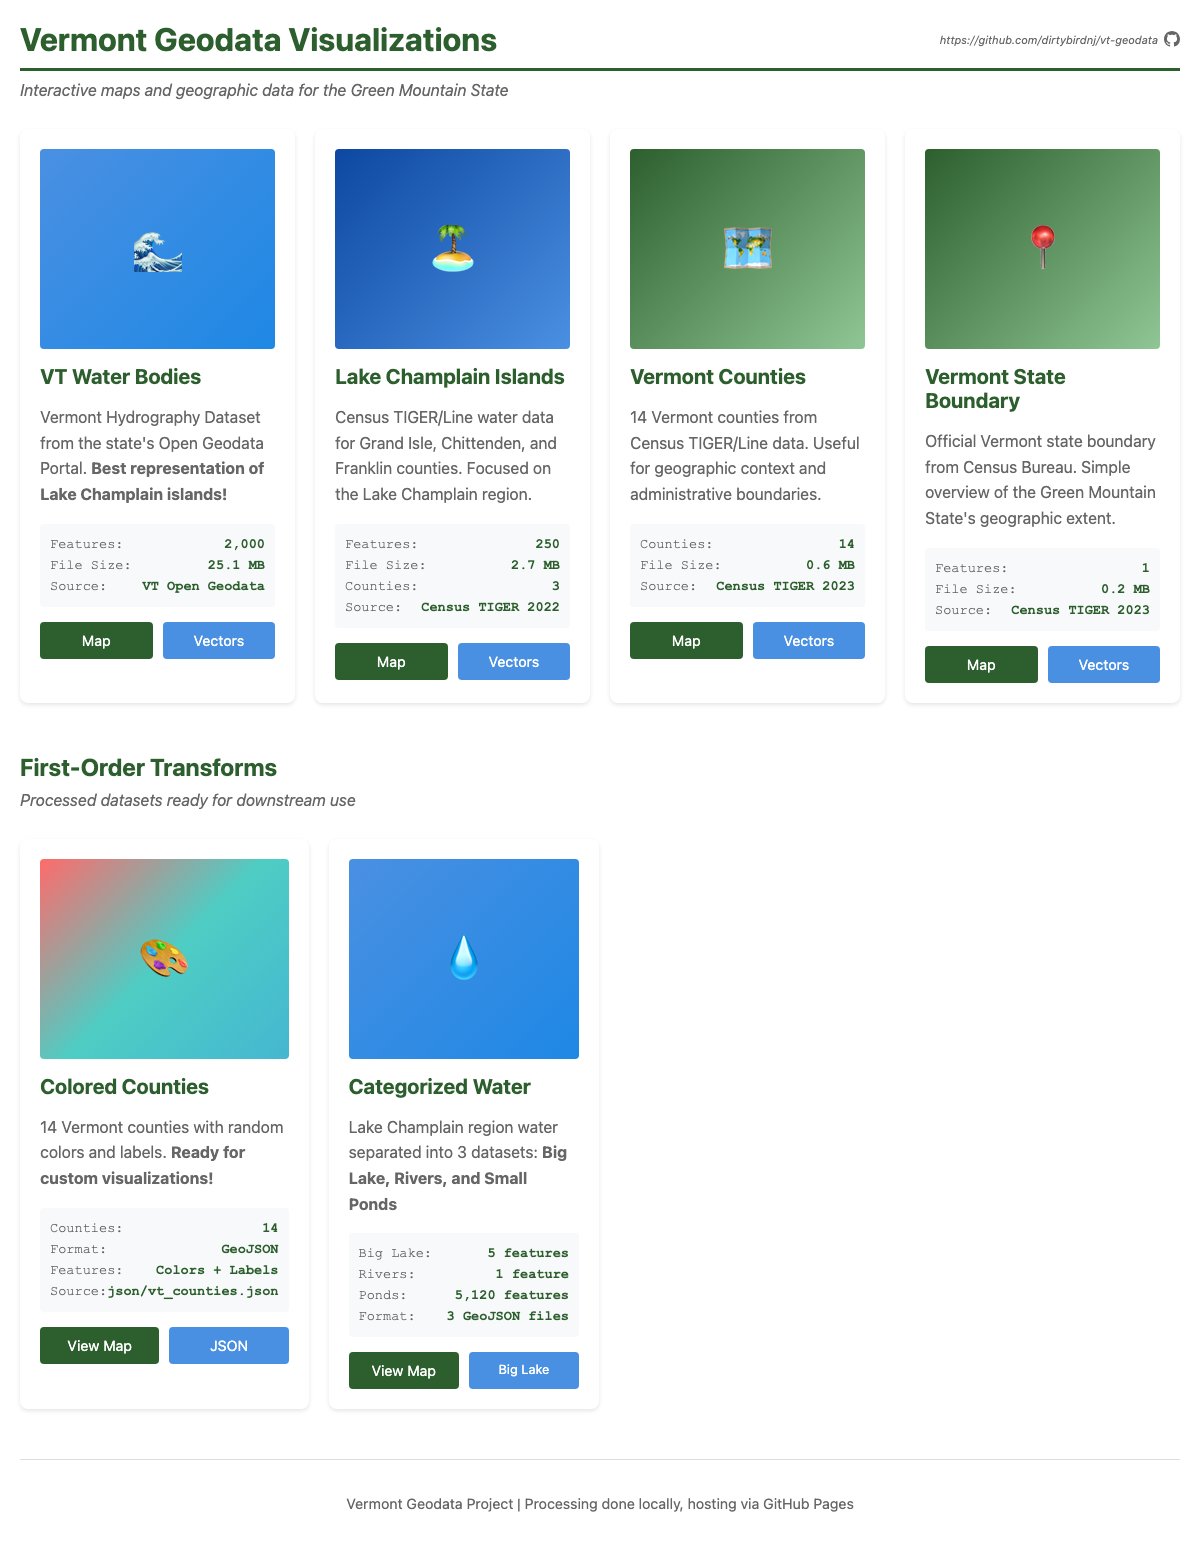
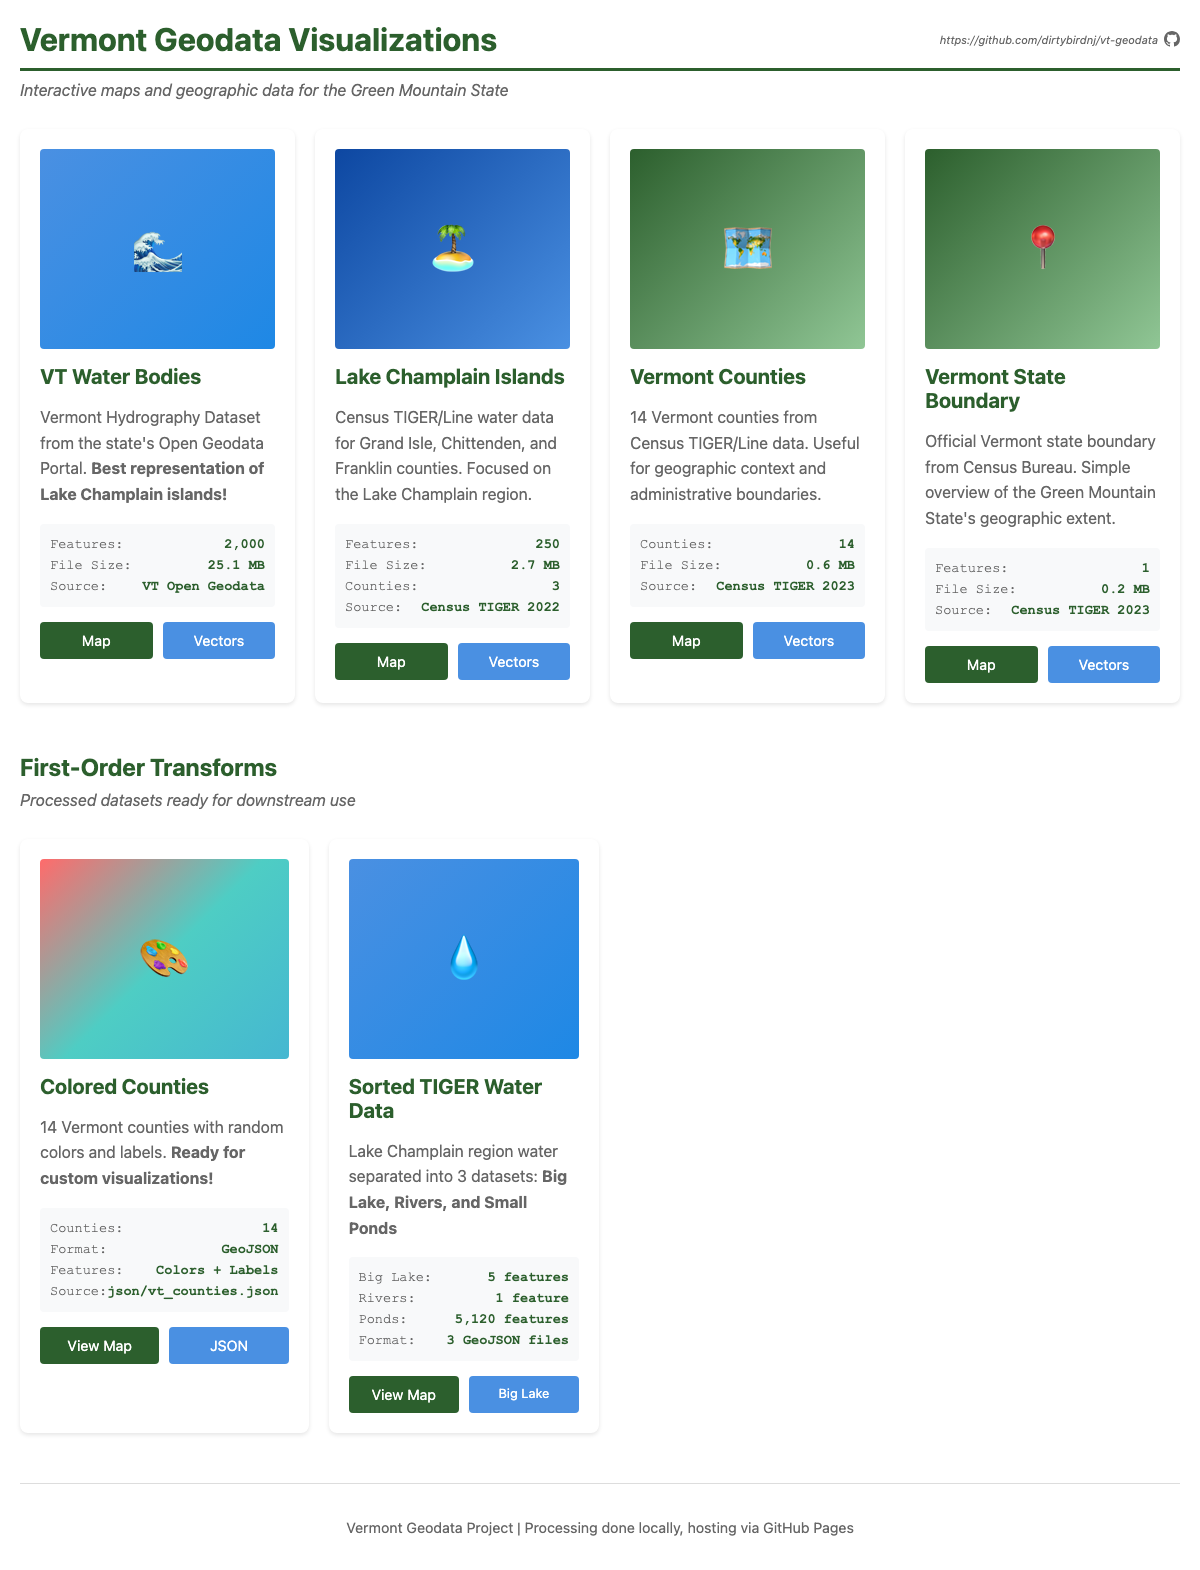
Update title to 'Sorted TIGER Water Data'
🤖 Generated with [Claude Code](https://claude.com/claude-code)

diff --git a/docs/index.html b/docs/index.html
@@ -279,10 +279,10 @@
             </div>
         </div>
 
-        <!-- Categorized Water -->
+        <!-- Sorted TIGER Water Data -->
         <div class="map-card">
             <div class="map-thumbnail water">💧</div>
-            <h2>Categorized Water</h2>
+            <h2>Sorted TIGER Water Data</h2>
             <p>
                 Lake Champlain region water separated into 3 datasets:
                 <b>Big Lake, Rivers, and Small Ponds</b>
